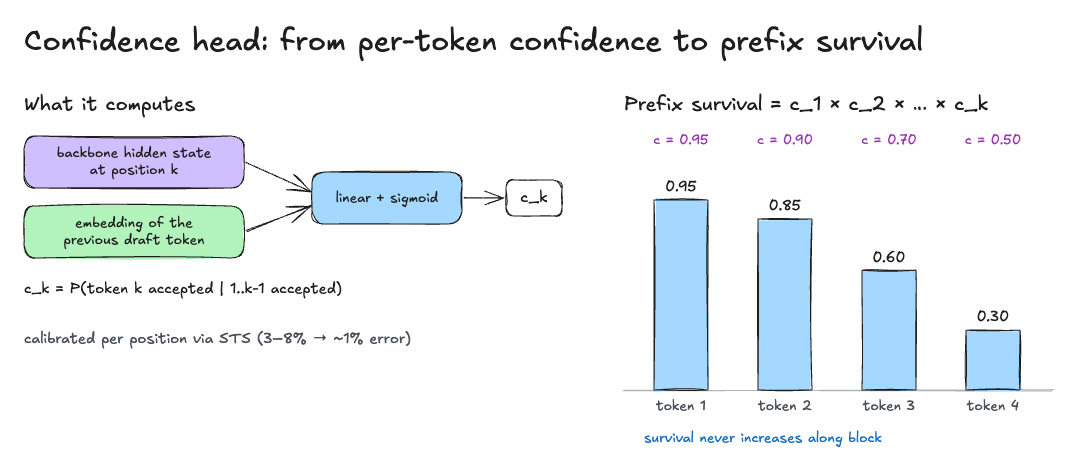
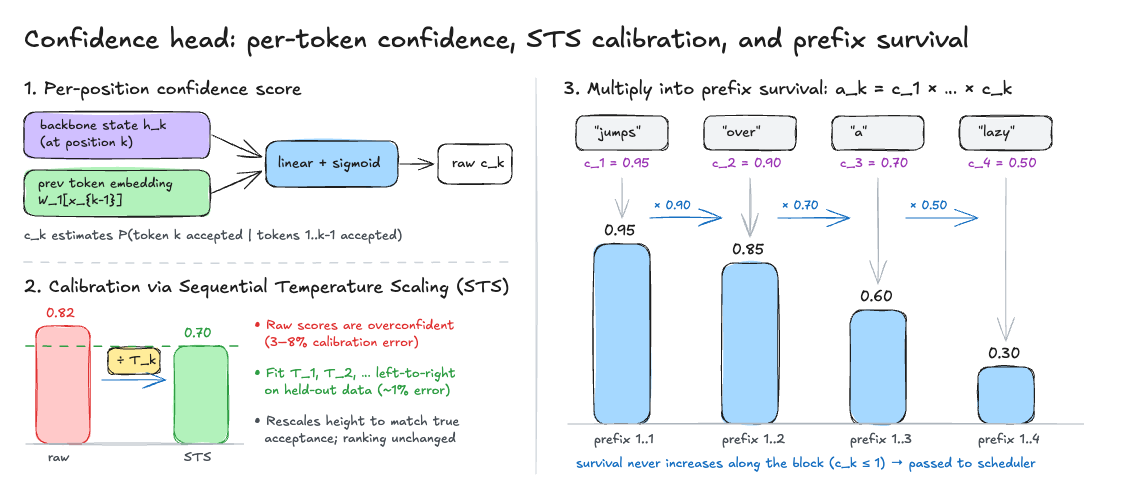
refactor: update Dart Sass installation method and correct publication date in DSpark article

diff --git a/content/articles/dspark/index.md b/content/articles/dspark/index.md
@@ -1,6 +1,6 @@
 +++
 title = "DSpark: when speculative decoding starts caring about your batch"
-date = "2026-11-07"
+date = "2026-11-01"
 description = "A serving engineer's read of DSpark (arXiv:2607.05147) — how semi-autoregressive drafting reduces suffix decay, and why confidence-scheduled verification makes draft length a scheduling decision instead of a fixed hyperparameter."
 tags = ["llm-inference", "llm-serving", "paper-review"]
 +++
@@ -90,11 +90,11 @@ Even with better drafts, verifying every drafted token is wasteful because the l
 
 #### 4.2.1 Confidence Head
 
-{{< figure src="confidence-head.png" link="confidence-head.png" alt="Left: the backbone hidden state and previous draft token embedding pass through a linear layer and sigmoid to produce c_k. Right: per-token confidences 0.95, 0.90, 0.70, and 0.50 multiply into prefix survival bars 0.95, 0.85, 0.60, and 0.30." caption="Left: computing per-token confidence c_k. Right: multiplying c_k into prefix survival probabilities (bar values illustrative; calibration error from Sec. 4.3.3)." >}}
+{{< figure src="confidence-head.png" link="confidence-head.png" alt="Step 1: backbone state h_k and previous token embedding pass through a linear layer and sigmoid to produce raw c_k. Step 2: Sequential Temperature Scaling (STS) divides logits by position-specific temperatures T_k to align overconfident raw scores with true acceptance. Step 3: calibrated c_k values (0.95, 0.90, 0.70, 0.50) multiply into falling prefix survival bars (0.95, 0.85, 0.60, 0.30)." caption="From per-token confidence to prefix survival: (1) computing raw c_k, (2) calibrating with STS, and (3) multiplying into prefix survival a_k (illustrative values; calibration error from Sec. 4.3.3)." >}}
 
-As shown on the left of the figure, the confidence head is a small linear layer with a sigmoid on top. For each draft position k, it looks at the backbone's hidden state and the embedding of the previous draft token, and outputs a score c_k. This is the chance that token k is accepted, given that every token before it was accepted. During training, it learns to match the real acceptance rate, which the paper computes from how far the draft distribution is from the target's.
+As shown in Step 1 of the figure, the confidence head is a small linear layer with a sigmoid on top. For each draft position k, it looks at the backbone's hidden state and the embedding of the previous draft token, and outputs a score c_k. This is the chance that token k is accepted, given that every token before it was accepted. During training, it learns to match the real acceptance rate, which the paper computes from how far the draft distribution is from the target's.
 
-Each score c_k only covers one position, while the target model accepts draft tokens as a continuous prefix. To get the chance that every token up to position k is accepted, DSpark multiplies the scores together into a *prefix survival* probability, c_1 × c_2 × … × c_k (right side of the figure), which never increases as you move further into the block. However, raw neural network scores are usually overconfident, which would make these survival estimates too high. DSpark calibrates them with *Sequential Temperature Scaling (STS)*, which fits one temperature per position from left to right on held-out data. This rescales the scores to match real acceptance rates without changing their order, reducing the calibration error from 3–8% to about 1%.
+Each score c_k only covers one position, while the target model accepts draft tokens as a continuous prefix. However, raw neural network scores are usually overconfident, which would make prefix estimates too high. As shown in Step 2, DSpark calibrates them with *Sequential Temperature Scaling (STS)*, fitting one temperature per position from left to right on held-out data. This rescales the scores to match real acceptance rates without changing their order, reducing the calibration error from 3–8% to about 1%. In Step 3, DSpark multiplies these calibrated scores together into a *prefix survival* probability, c_1 × c_2 × … × c_k, which gives the chance that every token up to position k is accepted and never increases along the block.
 
 #### 4.2.2 Hardware-Aware Prefix Scheduler
 
@@ -236,10 +236,10 @@ curl http://localhost:8000/v1/chat/completions \
 
 ## 7. Takeaways
 
-+- **Drafting and verification solve different problems.** A deep parallel backbone with a tiny Markov head makes it cheap to draft long, coherent blocks, while a separate scheduler decides how many of those tokens are worth sending to the target model.
-+- **Accepted tokens per round is not the only metric that matters.** In production, the real goal is total system throughput within your latency target, which depends on batch load as much as draft accuracy.
-+- **Draft length works best as a live scheduling choice.** Checking more draft tokens pays off when the GPU has spare room, and checking fewer protects the batch when traffic is heavy.
-+- **The drafter is easy to try today, while the scheduler is engine work.** You can run the open-source DSpark drafters in vLLM on a single GPU right now, whereas getting the high-concurrency serving gains from the paper requires confidence calibration, profiled step-time tables, and variable-length verification kernels.
+- **Drafting and verification solve different problems.** A deep parallel backbone with a tiny Markov head makes it cheap to draft long, coherent blocks, while a separate scheduler decides how many of those tokens are worth sending to the target model.
+- **Accepted tokens per round is not the only metric that matters.** In production, the real goal is total system throughput within your latency target, which depends on batch load as much as draft accuracy.
+- **Draft length works best as a live scheduling choice.** Checking more draft tokens pays off when the GPU has spare room, and checking fewer protects the batch when traffic is heavy.
+- **The drafter is easy to try today, while the scheduler is engine work.** You can run the open-source DSpark drafters in vLLM on a single GPU right now, whereas getting the high-concurrency serving gains from the paper requires confidence calibration, profiled step-time tables, and variable-length verification kernels.
 
 ---
 
